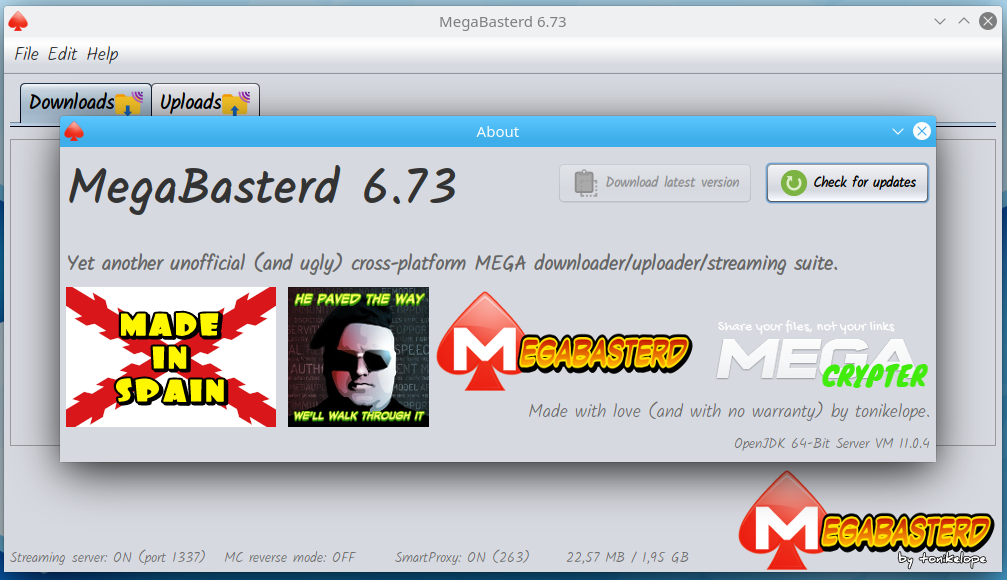
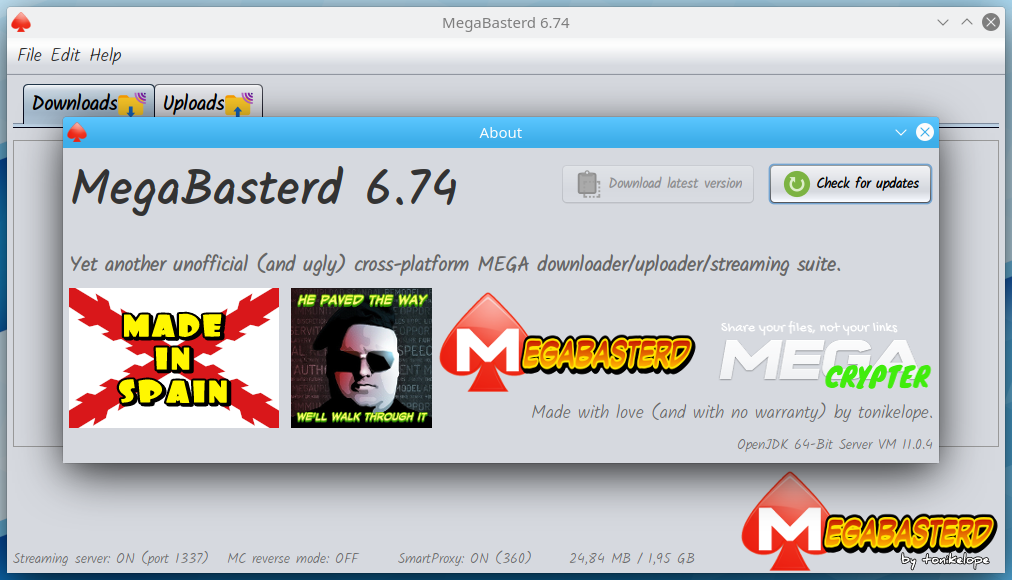
6.74
https://github.com/tonikelope/megabasterd/issues/134

diff --git a/src/main/java/com/tonikelope/megabasterd/MiscTools.java b/src/main/java/com/tonikelope/megabasterd/MiscTools.java
@@ -785,7 +785,29 @@ public class MiscTools {
         if (data != null) {
 
             try {
-                ArrayList<String> links = findAllRegex("(?:https?|mega)://[^/\r\n]+/(#[^\r\n!]*?)?![^\r\n!]+![^\r\n]+", URLDecoder.decode(data, "UTF-8"), 0);
+
+                ArrayList<String> links = new ArrayList<>();
+
+                ArrayList<String> base64_chunks = findAllRegex("[A-Za-z0-9+/_-]+=*", URLDecoder.decode(data, "UTF-8"), 0);
+
+                if (!base64_chunks.isEmpty()) {
+
+                    for (String chunk : base64_chunks) {
+
+                        try {
+
+                            String decoded = MiscTools.findFirstRegex("(?:https?|mega)://[^/\r\n]+/(#[^\r\n!]*?)?![^\r\n!]+![^\r\n]+", new String(Base64.getDecoder().decode(chunk), "UTF-8"), 0);
+
+                            if (decoded != null) {
+                                links.add(decoded);
+                            }
+
+                        } catch (Exception e) {
+                        };
+                    }
+                }
+
+                links.addAll(findAllRegex("(?:https?|mega)://[^/\r\n]+/(#[^\r\n!]*?)?![^\r\n!]+![^\r\n]+", URLDecoder.decode(data, "UTF-8"), 0));
 
                 links.addAll(findAllRegex("mega://e(n|l)c[^\r\n]+", URLDecoder.decode(data, "UTF-8"), 0));
 

diff --git a/src/main/java/com/tonikelope/megabasterd/MainPanel.java b/src/main/java/com/tonikelope/megabasterd/MainPanel.java
@@ -53,7 +53,7 @@ import javax.swing.UIManager;
  */
 public final class MainPanel {
 
-    public static final String VERSION = "6.73";
+    public static final String VERSION = "6.74";
     public static final int THROTTLE_SLICE_SIZE = 16 * 1024;
     public static final int DEFAULT_BYTE_BUFFER_SIZE = 16 * 1024;
     public static final int STREAMER_PORT = 1337;
